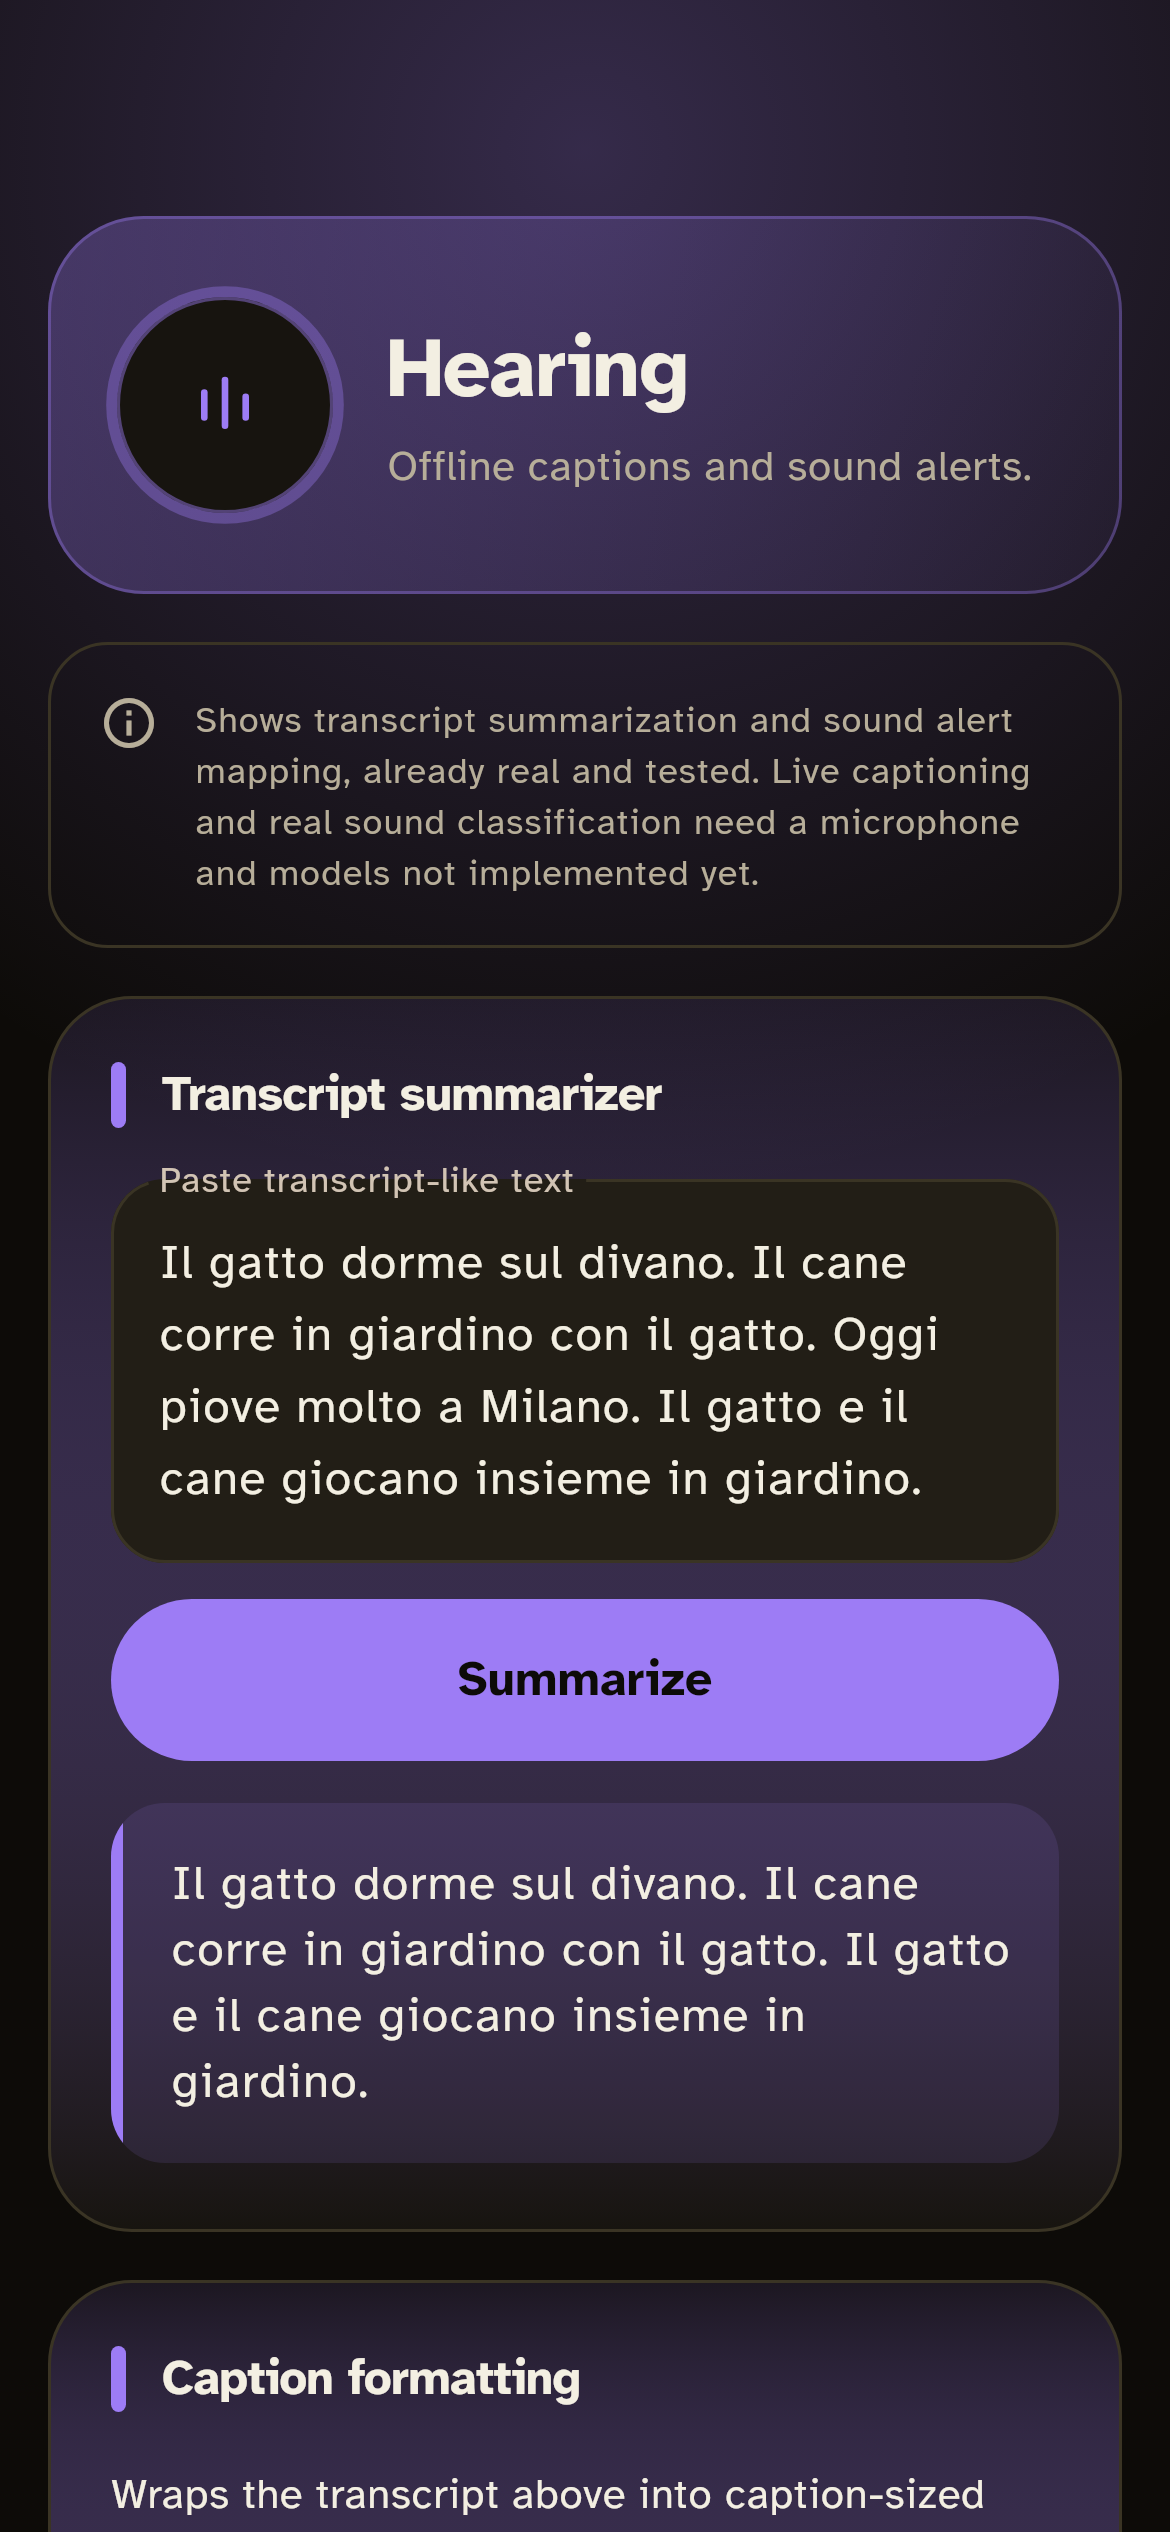
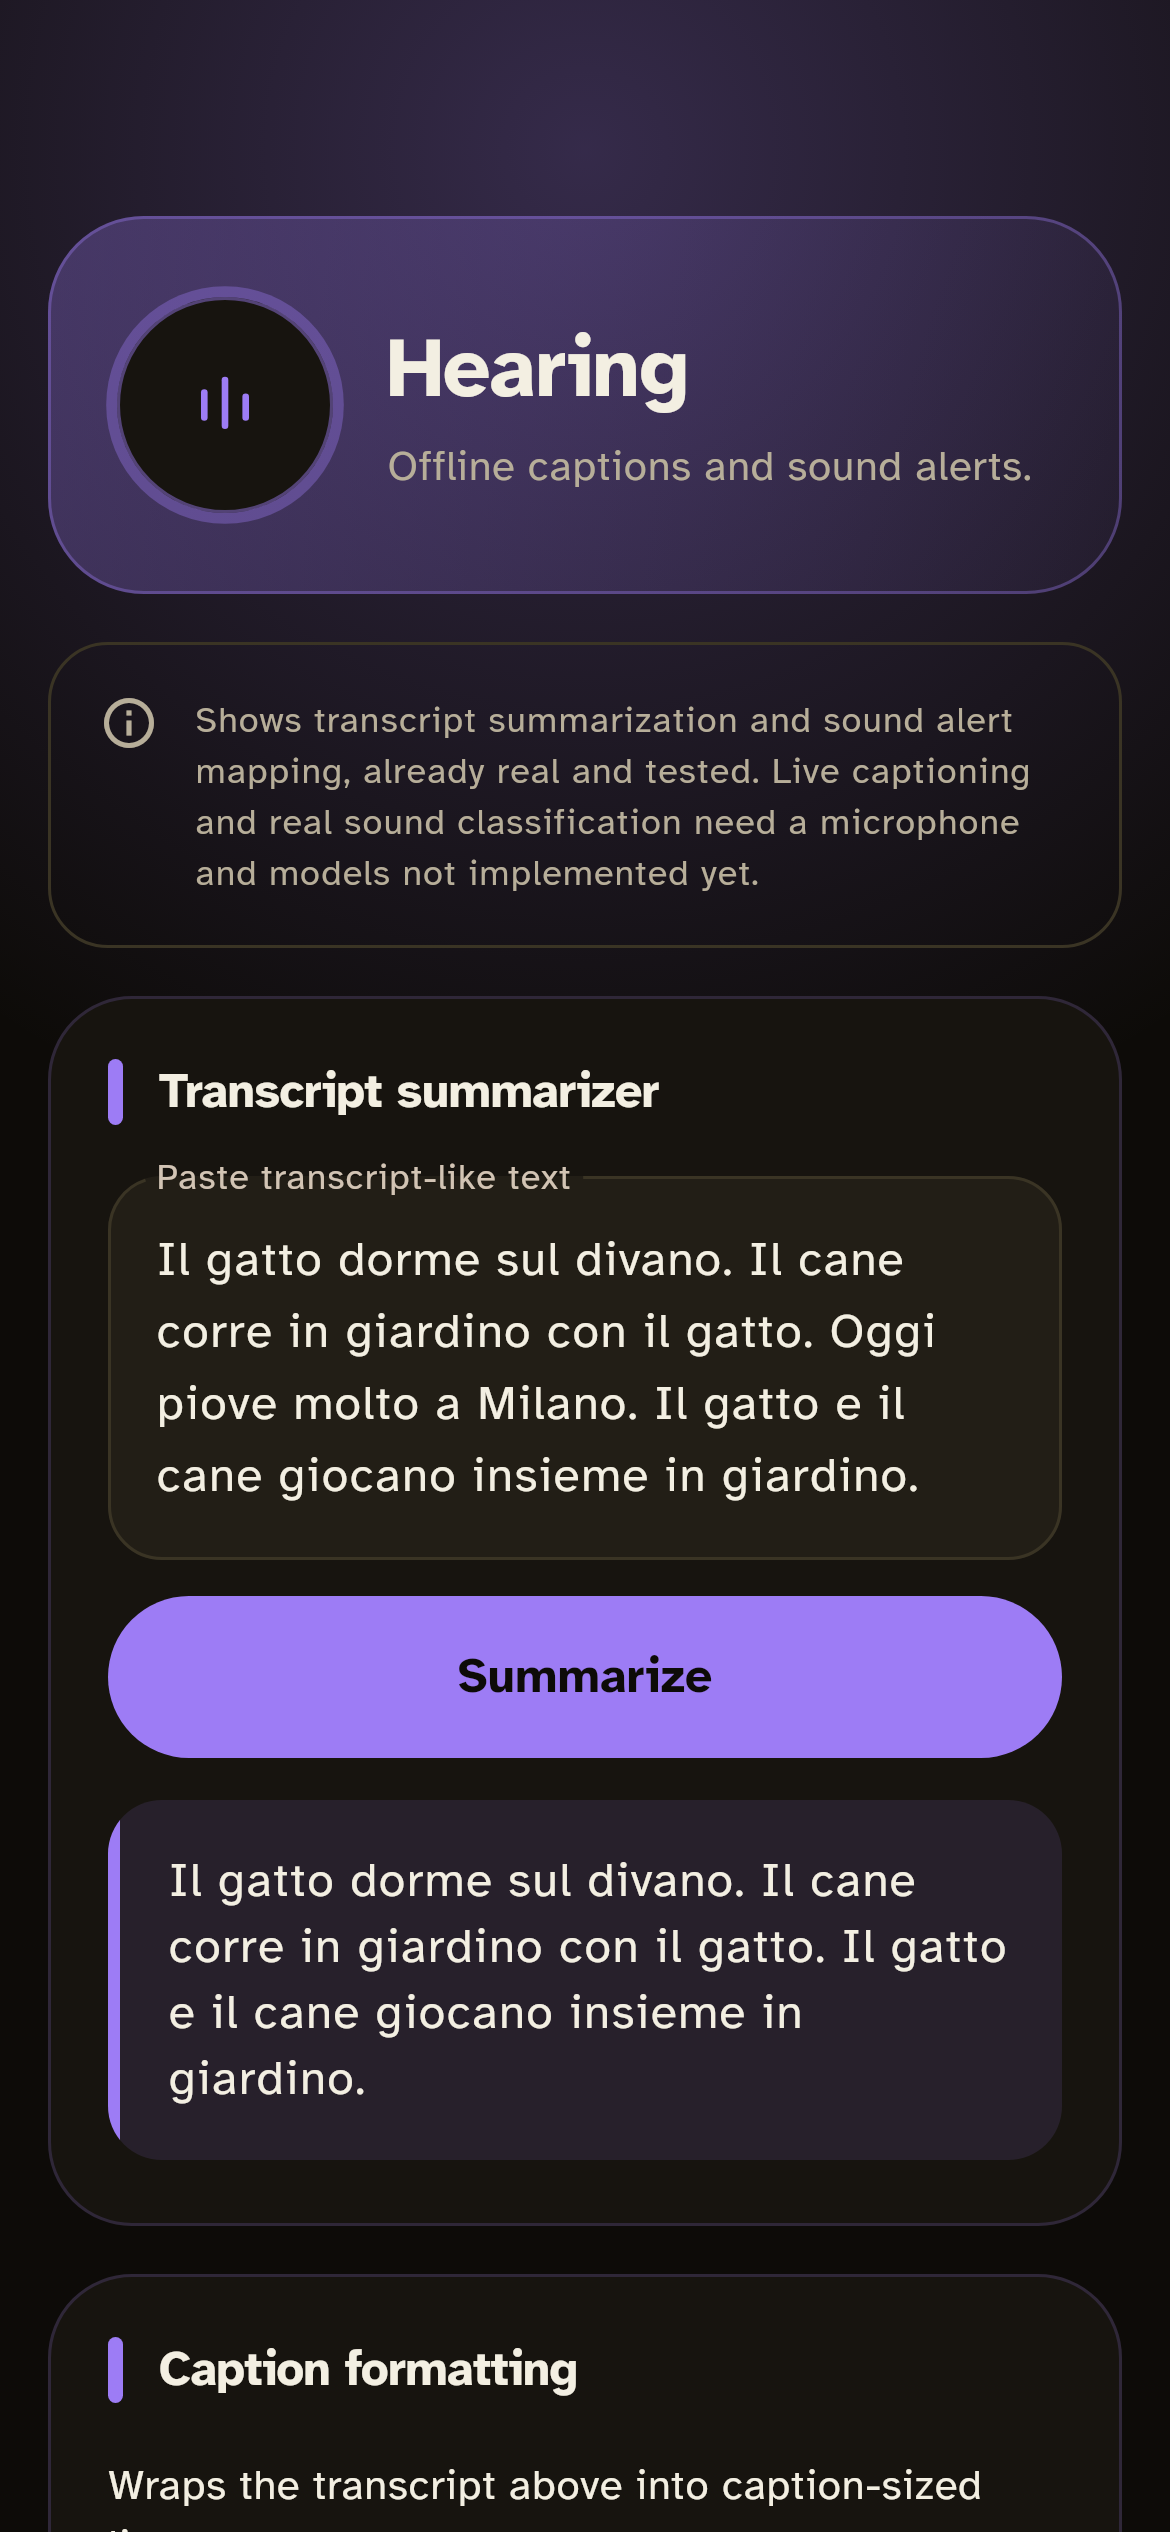
feat: flatten tool cards, add styled dropdowns and entrance motion
Tool cards use a flat surface so module color reads cleanly, dropdowns match text fields, the selected phrase is a gradient banner, and lists fade in.

diff --git a/lib/src/modules/widgets/tool_card.dart b/lib/src/modules/widgets/tool_card.dart
@@ -1,6 +1,7 @@
 import 'package:flutter/material.dart';
 
 import '../../theme/app_colors.dart';
+import '../../theme/fade_slide_in.dart';
 
 /// A titled card grouping one real, interactive tool on a module
 /// screen, so a screen with several tools reads as a clear set of
@@ -17,47 +18,46 @@ class ToolCard extends StatelessWidget {
   @override
   Widget build(BuildContext context) {
     final accent = Theme.of(context).colorScheme.primary;
-    return Container(
-      decoration: BoxDecoration(
-        borderRadius: BorderRadius.circular(28),
-        border: Border.all(color: AppColors.border),
-        gradient: LinearGradient(
-          begin: Alignment.topCenter,
-          end: Alignment.bottomCenter,
-          colors: [accent.withValues(alpha: 0.1), AppColors.surface],
-        ),
-      ),
-      padding: const EdgeInsets.fromLTRB(20, 20, 20, 22),
-      child: Column(
-        crossAxisAlignment: CrossAxisAlignment.start,
-        children: [
-          Row(
-            children: [
-              Container(
-                width: 5,
-                height: 22,
-                decoration: BoxDecoration(
-                  color: accent,
-                  borderRadius: BorderRadius.circular(3),
-                ),
-              ),
-              const SizedBox(width: 12),
-              Expanded(
-                child: Text(
-                  title,
-                  style: Theme.of(context).textTheme.titleMedium?.copyWith(
-                        fontWeight: FontWeight.w700,
-                        letterSpacing: -0.2,
+    return FadeSlideIn(
+        child: Material(
+            color: AppColors.surface,
+            shape: RoundedRectangleBorder(
+              borderRadius: BorderRadius.circular(28),
+              side: BorderSide(color: accent.withValues(alpha: 0.18)),
+            ),
+            child: Padding(
+              padding: const EdgeInsets.fromLTRB(20, 20, 20, 22),
+              child: Column(
+                crossAxisAlignment: CrossAxisAlignment.start,
+                children: [
+                  Row(
+                    children: [
+                      Container(
+                        width: 5,
+                        height: 22,
+                        decoration: BoxDecoration(
+                          color: accent,
+                          borderRadius: BorderRadius.circular(3),
+                        ),
                       ),
-                ),
+                      const SizedBox(width: 12),
+                      Expanded(
+                        child: Text(
+                          title,
+                          style:
+                              Theme.of(context).textTheme.titleMedium?.copyWith(
+                                    fontWeight: FontWeight.w700,
+                                    letterSpacing: -0.2,
+                                  ),
+                        ),
+                      ),
+                    ],
+                  ),
+                  const SizedBox(height: 16),
+                  ...children,
+                ],
               ),
-            ],
-          ),
-          const SizedBox(height: 16),
-          ...children,
-        ],
-      ),
-    );
+            )));
   }
 }
 

diff --git a/lib/src/modules/speech_screen.dart b/lib/src/modules/speech_screen.dart
@@ -2,6 +2,7 @@ import 'package:flutter/material.dart';
 import 'package:lumen_plugin_speech/lumen_plugin_speech.dart';
 
 import '../l10n/app_strings.dart';
+import '../theme/app_colors.dart';
 import 'widgets/module_header.dart';
 import 'widgets/module_note.dart';
 import 'widgets/tool_card.dart';
@@ -80,21 +81,34 @@ class _SpeechScreenState extends State<SpeechScreen> {
           ModuleNote(text: strings('speechNote')),
           const SizedBox(height: 16),
           if (_selectedPhrase != null)
-            Card(
-              color: Theme.of(context).colorScheme.primaryContainer,
-              child: Padding(
-                padding: const EdgeInsets.all(24),
-                child: Text(
-                  isItalian ? _selectedPhrase!.textIt : _selectedPhrase!.textEn,
-                  textAlign: TextAlign.center,
-                  style: Theme.of(context).textTheme.headlineSmall?.copyWith(
-                        color: Theme.of(context).colorScheme.onPrimaryContainer,
-                      ),
+            Container(
+              width: double.infinity,
+              padding: const EdgeInsets.symmetric(horizontal: 24, vertical: 36),
+              decoration: BoxDecoration(
+                borderRadius: BorderRadius.circular(32),
+                gradient: LinearGradient(
+                  begin: Alignment.topLeft,
+                  end: Alignment.bottomRight,
+                  colors: [
+                    Theme.of(context).colorScheme.primary,
+                    Theme.of(context)
+                        .colorScheme
+                        .primary
+                        .withValues(alpha: 0.65),
+                  ],
                 ),
+              ),
+              child: Text(
+                isItalian ? _selectedPhrase!.textIt : _selectedPhrase!.textEn,
+                textAlign: TextAlign.center,
+                style: Theme.of(context).textTheme.headlineMedium?.copyWith(
+                      color: AppColors.background,
+                      fontWeight: FontWeight.w700,
+                    ),
               ),
             ),
           const SizedBox(height: 16),
-          for (final category in PhraseCategory.values)
+          for (final category in PhraseCategory.values) ...[
             ToolCard(
               title: _categoryLabel(strings, category),
               children: [
@@ -111,6 +125,8 @@ class _SpeechScreenState extends State<SpeechScreen> {
                 ),
               ],
             ),
+            const SizedBox(height: 16),
+          ],
           if (_suggestions.isNotEmpty)
             ToolCard(
               title: strings('speechSuggestionsTitle'),

diff --git a/lib/src/modules/widgets/styled_dropdown.dart b/lib/src/modules/widgets/styled_dropdown.dart
@@ -1,0 +1,46 @@
+import 'package:flutter/material.dart';
+
+import '../../theme/app_colors.dart';
+
+/// A dropdown drawn like the app's text fields: a raised, rounded,
+/// bordered box instead of Material's bare underlined control, so
+/// choices and text inputs read as one family on module screens.
+class StyledDropdown<T> extends StatelessWidget {
+  const StyledDropdown({
+    super.key,
+    required this.value,
+    required this.items,
+    required this.onChanged,
+    this.isExpanded = true,
+  });
+
+  final T value;
+  final List<DropdownMenuItem<T>> items;
+  final ValueChanged<T?> onChanged;
+  final bool isExpanded;
+
+  @override
+  Widget build(BuildContext context) {
+    return Container(
+      padding: const EdgeInsets.symmetric(horizontal: 16),
+      decoration: BoxDecoration(
+        color: AppColors.surfaceRaised,
+        borderRadius: BorderRadius.circular(18),
+        border: Border.all(color: AppColors.border),
+      ),
+      child: DropdownButtonHideUnderline(
+        child: DropdownButton<T>(
+          isExpanded: isExpanded,
+          value: value,
+          items: items,
+          onChanged: onChanged,
+          borderRadius: BorderRadius.circular(18),
+          dropdownColor: AppColors.surfaceRaised,
+          icon: const Icon(Icons.expand_more_rounded),
+          iconEnabledColor: AppColors.muted,
+          style: Theme.of(context).textTheme.bodyLarge,
+        ),
+      ),
+    );
+  }
+}

diff --git a/lib/src/home/home_screen.dart b/lib/src/home/home_screen.dart
@@ -5,6 +5,7 @@ import '../onboarding/module_catalog.dart';
 import '../storage/user_profile.dart';
 import '../modules/widgets/module_glow_badge.dart';
 import '../theme/app_colors.dart';
+import '../theme/fade_slide_in.dart';
 import '../theme/logo_mark.dart';
 
 /// Lists the modules the user enabled during onboarding or from
@@ -126,10 +127,13 @@ class HomeScreen extends StatelessWidget {
                     ),
                   )
                 else
-                  for (final module in enabledModules) ...[
-                    _ModuleCard(
-                      module: module,
-                      onTap: () => onOpenModule(module.id),
+                  for (var i = 0; i < enabledModules.length; i++) ...[
+                    FadeSlideIn(
+                      duration: Duration(milliseconds: 380 + 70 * i),
+                      child: _ModuleCard(
+                        module: enabledModules[i],
+                        onTap: () => onOpenModule(enabledModules[i].id),
+                      ),
                     ),
                     const SizedBox(height: 12),
                   ],

diff --git a/lib/src/theme/fade_slide_in.dart b/lib/src/theme/fade_slide_in.dart
@@ -1,0 +1,36 @@
+import 'package:flutter/material.dart';
+
+/// Fades a child in while sliding it up a short distance the first time
+/// it is built.
+///
+/// Lists use a slightly longer [duration] for later items, which gives
+/// a gentle cascade without needing a shared controller or any timers.
+/// Motion is skipped entirely when the platform asks to reduce it.
+class FadeSlideIn extends StatelessWidget {
+  const FadeSlideIn({
+    super.key,
+    required this.child,
+    this.duration = const Duration(milliseconds: 420),
+  });
+
+  final Widget child;
+  final Duration duration;
+
+  @override
+  Widget build(BuildContext context) {
+    if (MediaQuery.of(context).disableAnimations) return child;
+    return TweenAnimationBuilder<double>(
+      tween: Tween(begin: 0, end: 1),
+      duration: duration,
+      curve: Curves.easeOutCubic,
+      builder: (context, value, child) => Opacity(
+        opacity: value,
+        child: Transform.translate(
+          offset: Offset(0, (1 - value) * 18),
+          child: child,
+        ),
+      ),
+      child: child,
+    );
+  }
+}

diff --git a/lib/src/modules/mobility_screen.dart b/lib/src/modules/mobility_screen.dart
@@ -3,6 +3,7 @@ import 'package:lumen_plugin_mobility/lumen_plugin_mobility.dart';
 
 import '../l10n/app_strings.dart';
 import 'widgets/module_header.dart';
+import 'widgets/styled_dropdown.dart';
 import 'widgets/module_note.dart';
 import 'widgets/tool_card.dart';
 
@@ -179,8 +180,7 @@ class _MobilityScreenState extends State<MobilityScreen> {
           ToolCard(
             title: strings('mobilityProfileTitle'),
             children: [
-              DropdownButton<MobilityAidType>(
-                isExpanded: true,
+              StyledDropdown<MobilityAidType>(
                 value: _aidType,
                 items: MobilityAidType.values
                     .map(
@@ -195,8 +195,7 @@ class _MobilityScreenState extends State<MobilityScreen> {
                 },
               ),
               const SizedBox(height: 8),
-              DropdownButton<GuidanceVerbosity>(
-                isExpanded: true,
+              StyledDropdown<GuidanceVerbosity>(
                 value: _verbosity,
                 items: GuidanceVerbosity.values
                     .map(

diff --git a/lib/src/settings/settings_screen.dart b/lib/src/settings/settings_screen.dart
@@ -7,6 +7,7 @@ import '../storage/module_config_repository.dart';
 import '../storage/user_profile.dart';
 import '../storage/user_profile_repository.dart';
 import '../modules/widgets/module_glow_badge.dart';
+import '../modules/widgets/styled_dropdown.dart';
 import '../theme/app_colors.dart';
 import '../theme/ui_mode.dart';
 
@@ -52,7 +53,8 @@ class _SettingsScreenState extends State<SettingsScreen> {
                   ListTile(
                     title: Text(strings('settingsUiMode')),
                     subtitle: Text(_uiModeLabel(strings, profile.uiMode)),
-                    trailing: DropdownButton<UiMode>(
+                    trailing: StyledDropdown<UiMode>(
+                      isExpanded: false,
                       value: profile.uiMode,
                       onChanged: (mode) {
                         if (mode == null) return;

diff --git a/lib/src/modules/hearing_screen.dart b/lib/src/modules/hearing_screen.dart
@@ -3,6 +3,7 @@ import 'package:lumen_plugin_hearing/lumen_plugin_hearing.dart';
 
 import '../l10n/app_strings.dart';
 import 'widgets/module_header.dart';
+import 'widgets/styled_dropdown.dart';
 import 'widgets/module_note.dart';
 import 'widgets/tool_card.dart';
 
@@ -140,8 +141,7 @@ class _HearingScreenState extends State<HearingScreen> {
           ToolCard(
             title: strings('hearingAlertTitle'),
             children: [
-              DropdownButton<String>(
-                isExpanded: true,
+              StyledDropdown<String>(
                 value: _selectedSoundLabel,
                 items: _sampleSoundLabels
                     .map(
